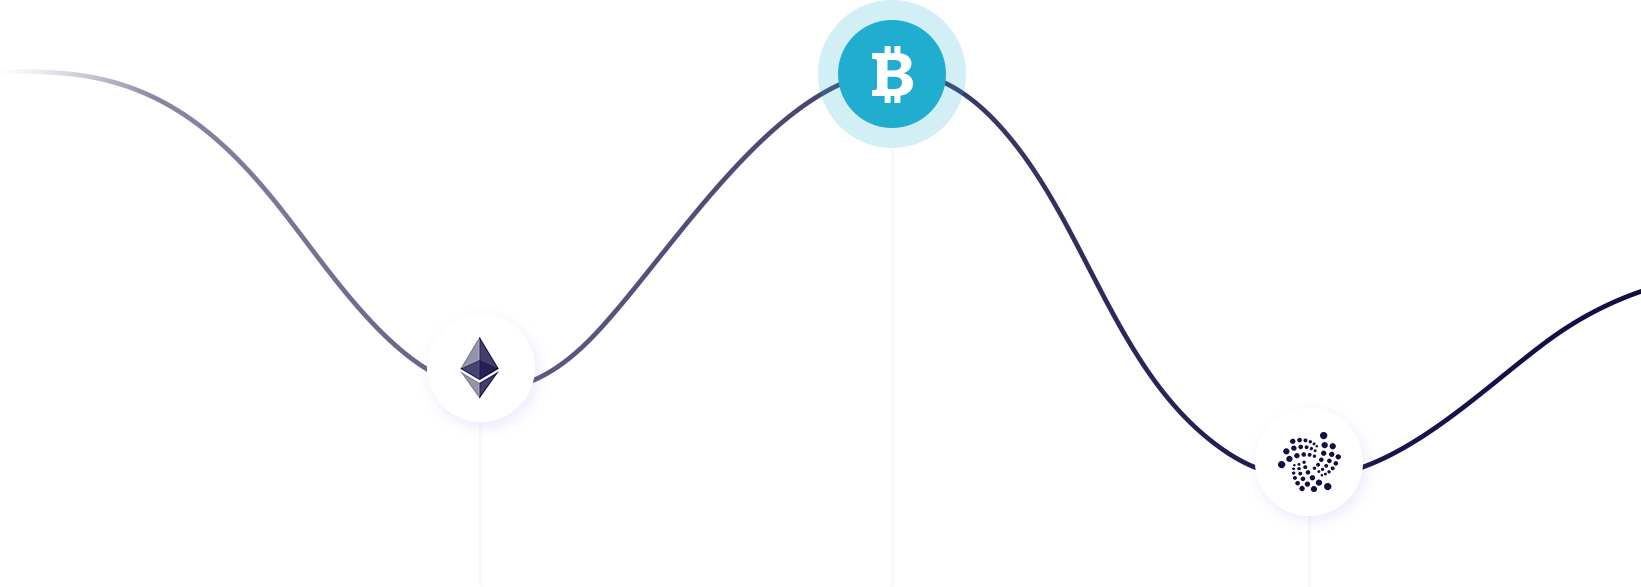
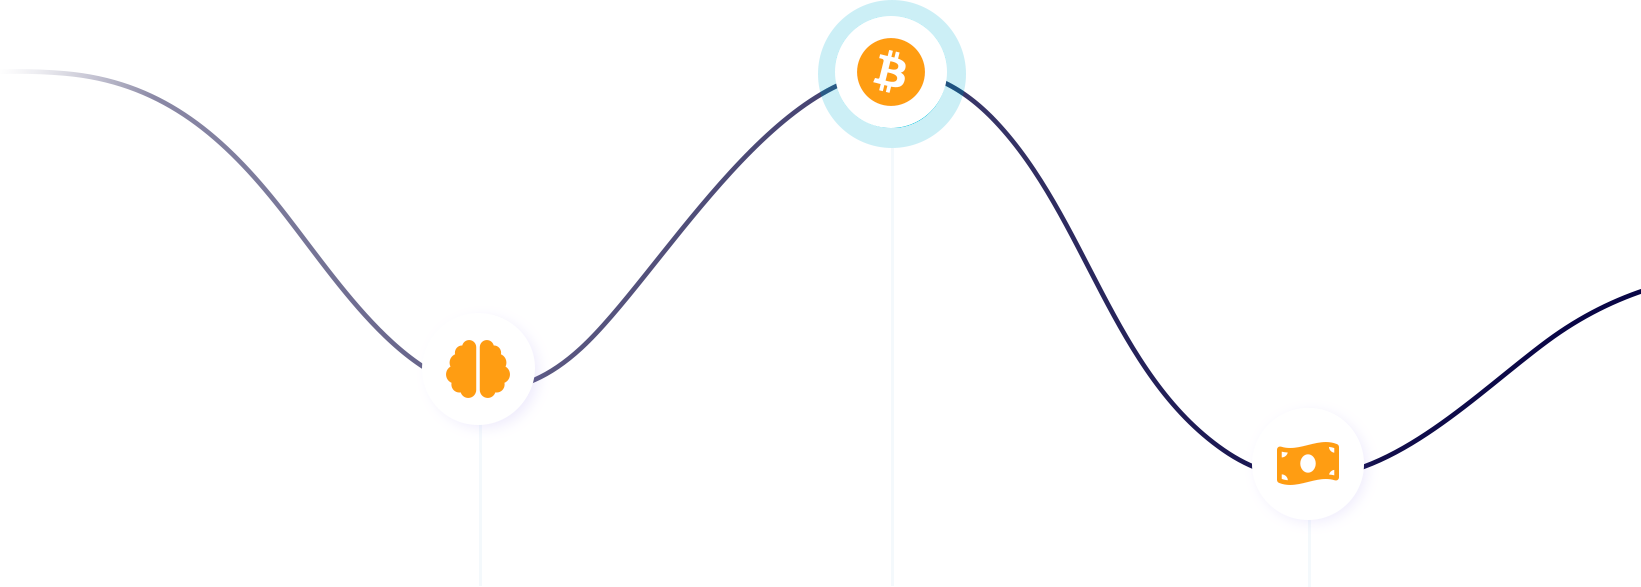
'Lucratividade'

Changed region(s): [[0.4973, 0.0307, 0.5905, 0.2147], [0.777, 0.7359, 0.8391, 0.8279], [0.2486, 0.5826, 0.3108, 0.6746]]

diff --git a/index.html b/index.html
@@ -271,25 +271,25 @@
 	<div class="container-fluid live-currency animatedParent">
 		<div class="row align-items-center">
 			<div class="col-lg-4 col-md-4 offset-lg-1 live-currency-div1 animated bounceInLeft delay-250">
-				<h4>Crypto market</h4>
-				<h2 class="h2-main">Live currency</h2>
-				<p>Lorem ipsum dolor sit amet, consectetur adipiscing elit, sed do eiusmod tempor incididunt ut labore et dolore magna.</p>
-				<a href="calculator.html" class="see-brd-btn">To Calculator</a>
+				<h4>Muita</h4>
+				<h2 class="h2-main">Lucratividade</h2>
+				<p>A CredMiner oferece uma plataforma com simplicidade para você lucrar com criptomoedas.</p>
+				<a href="https://bo.credminer.com/register" target="_blank" class="see-brd-btn">Iniciar</a>
 			</div>
 			<div class="col-lg-7 col-md-8 live-currency-div2 animated bounceInRight delay-500">
 				<img  src="assets/img/line-bitcoin.png" alt="images">
 				<div class="live-currency-cont">
 					<div>
-						<h4>Ethereum</h4>
-						<p>$323.6</p>
+						<h4>Conhecimento</h4>
+						<p>Não precisa.</p>
 					</div>
 					<div>
-						<h4>Bitcoin</h4>
-						<p>$7 500</p>
+						<h4>Bonificação</h4>
+						<p>Muito lucrativa.</p>
 					</div>
 					<div>
-						<h4>IOTA</h4>
-						<p>$0.5669</p>
+						<h4>Ínicio Rápido</h4>
+						<p>Com baixo investimento.</p>
 					</div>
 				</div>
 			</div>

diff --git a/assets/css/style.scss b/assets/css/style.scss
@@ -790,7 +790,7 @@ body,html {
     margin-top: 42px;
   }
   .live-currency .live-currency-div1 h4 {
-    color: #20add0;
+    color: #ff9d1c;
     font-size: 18px;
     font-weight: 700;
   }

diff --git a/assets/css/style.css b/assets/css/style.css
@@ -928,7 +928,7 @@ header .mobile-btn span:after {
 }
 
 .live-currency .live-currency-div1 h4 {
-  color: #20add0;
+  color: #ff9d1c;
   font-size: 18px;
   font-weight: 700;
 }
